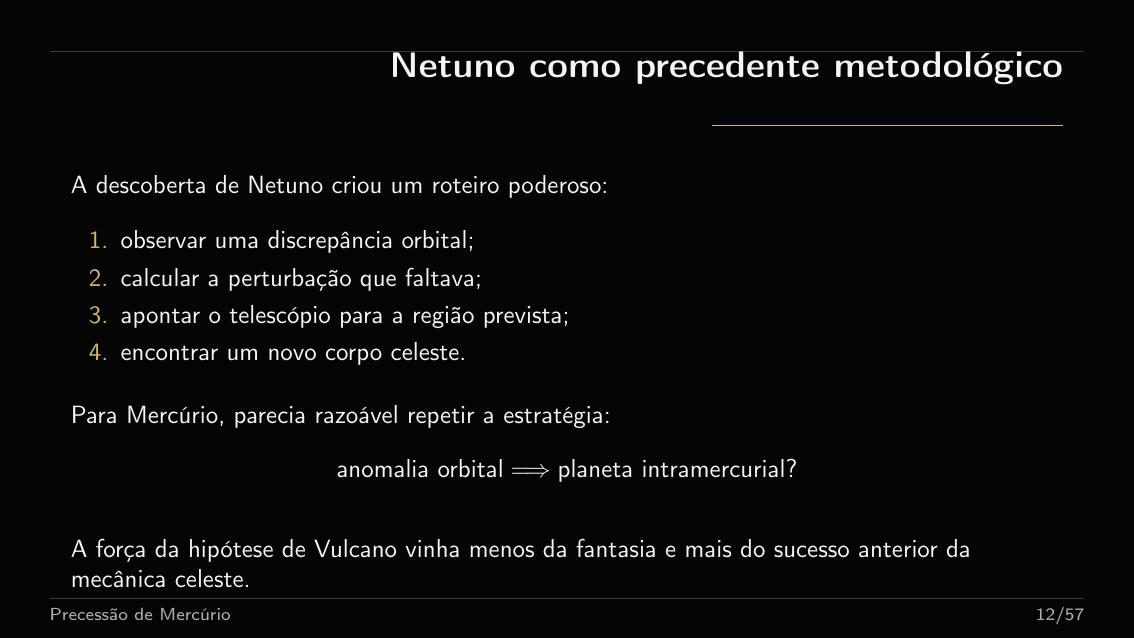
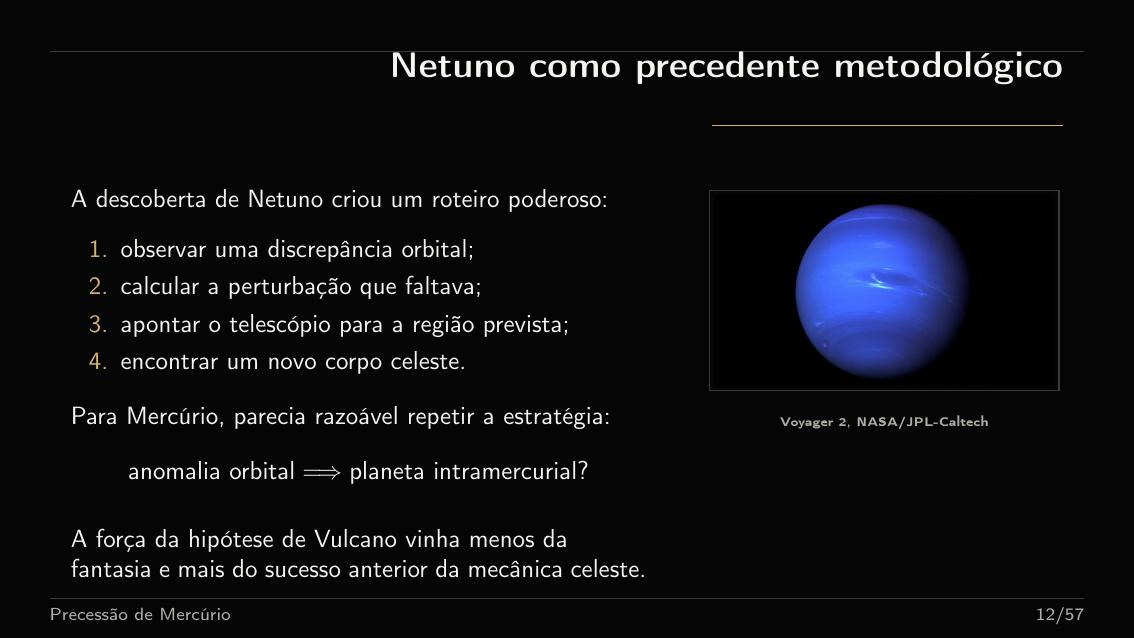
Adiciona imagem de Netuno

diff --git a/precessao-mercurio/apresentacao_precessao_mercurio.tex b/precessao-mercurio/apresentacao_precessao_mercurio.tex
@@ -385,24 +385,40 @@
 \end{frame}
 
 \begin{frame}{Netuno como precedente metodológico}
-  A descoberta de Netuno criou um roteiro poderoso:
+  \begin{columns}[T,onlytextwidth]
+    \column{0.58\textwidth}
+    A descoberta de Netuno criou um roteiro poderoso:
 
-  \vspace{0.25cm}
-  \begin{enumerate}
-    \item observar uma discrepância orbital;
-    \item calcular a perturbação que faltava;
-    \item apontar o telescópio para a região prevista;
-    \item encontrar um novo corpo celeste.
-  \end{enumerate}
+    \vspace{0.18cm}
+    \begin{enumerate}
+      \item observar uma discrepância orbital;
+      \item calcular a perturbação que faltava;
+      \item apontar o telescópio para a região prevista;
+      \item encontrar um novo corpo celeste.
+    \end{enumerate}
 
-  \vspace{0.35cm}
-  Para Mercúrio, parecia razoável repetir a estratégia:
-  \[
-    \text{anomalia orbital} \Longrightarrow \text{planeta intramercurial?}
-  \]
+    \vspace{0.25cm}
+    Para Mercúrio, parecia razoável repetir a estratégia:
+    \[
+      \text{anomalia orbital} \Longrightarrow \text{planeta intramercurial?}
+    \]
 
-  \vspace{0.35cm}
-  A força da hipótese de Vulcano vinha menos da fantasia e mais do sucesso anterior da mecânica celeste.
+    \vspace{0.18cm}
+    A força da hipótese de Vulcano vinha menos da fantasia e mais do sucesso anterior da mecânica celeste.
+
+    \column{0.36\textwidth}
+    \centering
+    \begin{tikzpicture}
+      \node[
+        draw=MercuryLine,
+        line width=0.45pt,
+        inner sep=2pt
+      ]{\includegraphics[width=0.95\linewidth]{assets/neptune_voyager2.jpg}};
+    \end{tikzpicture}
+
+    \vspace{0.08cm}
+    \imgcredit{Voyager 2, NASA/JPL-Caltech}
+  \end{columns}
 \end{frame}
 
 \begin{frame}{A hipótese de Vulcano}